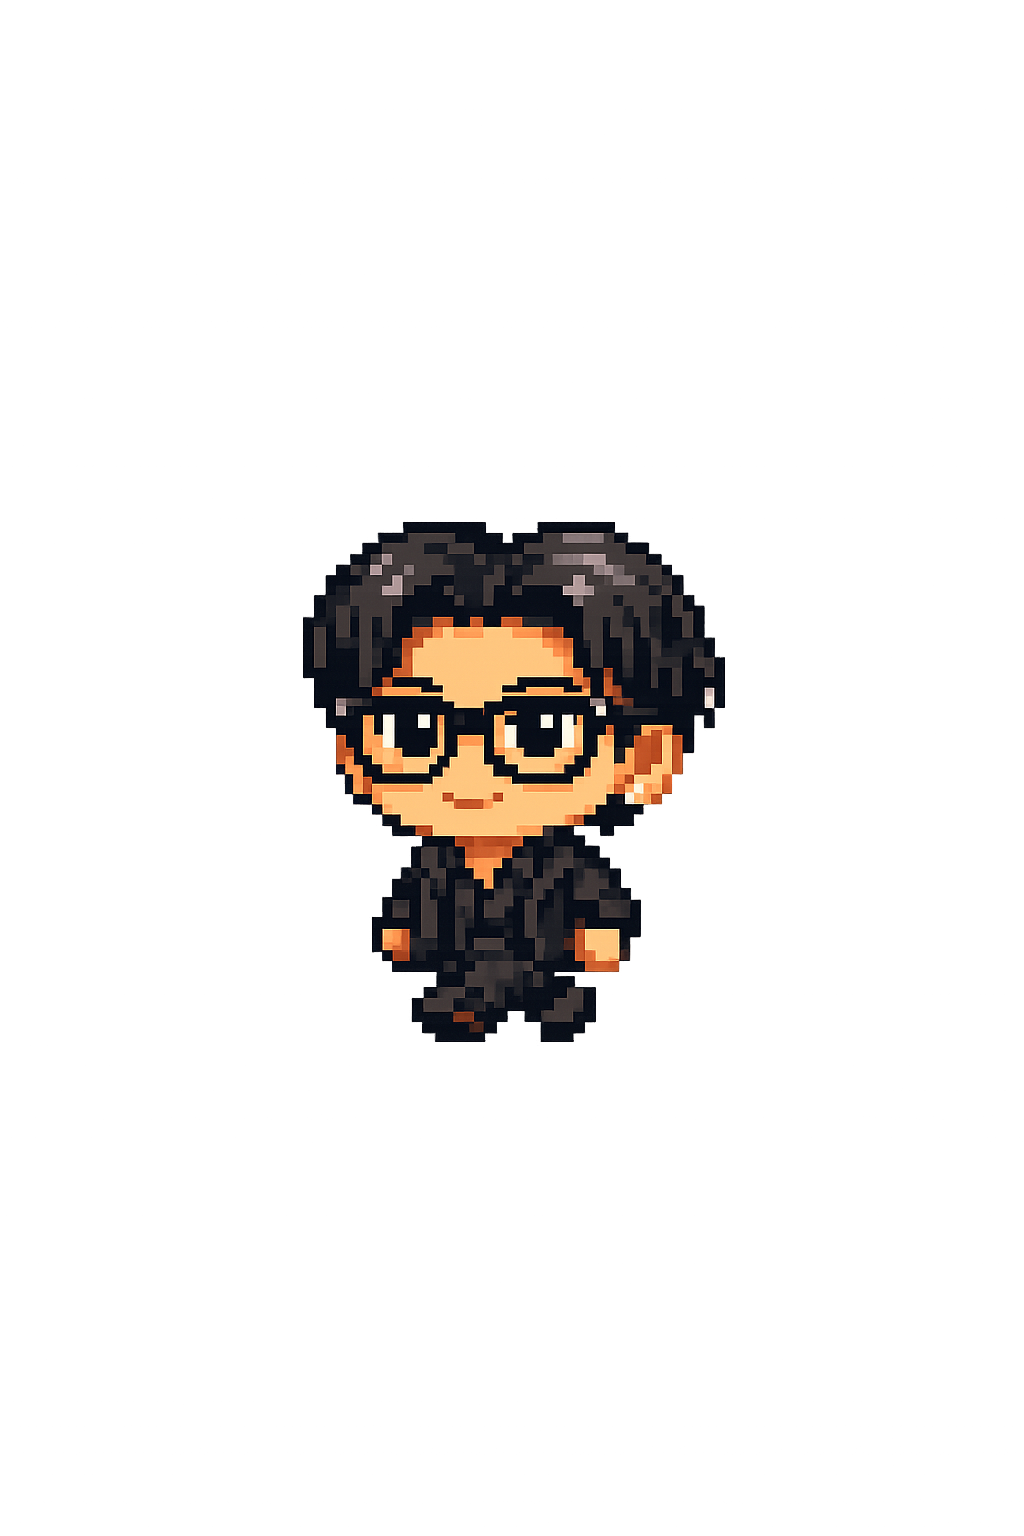
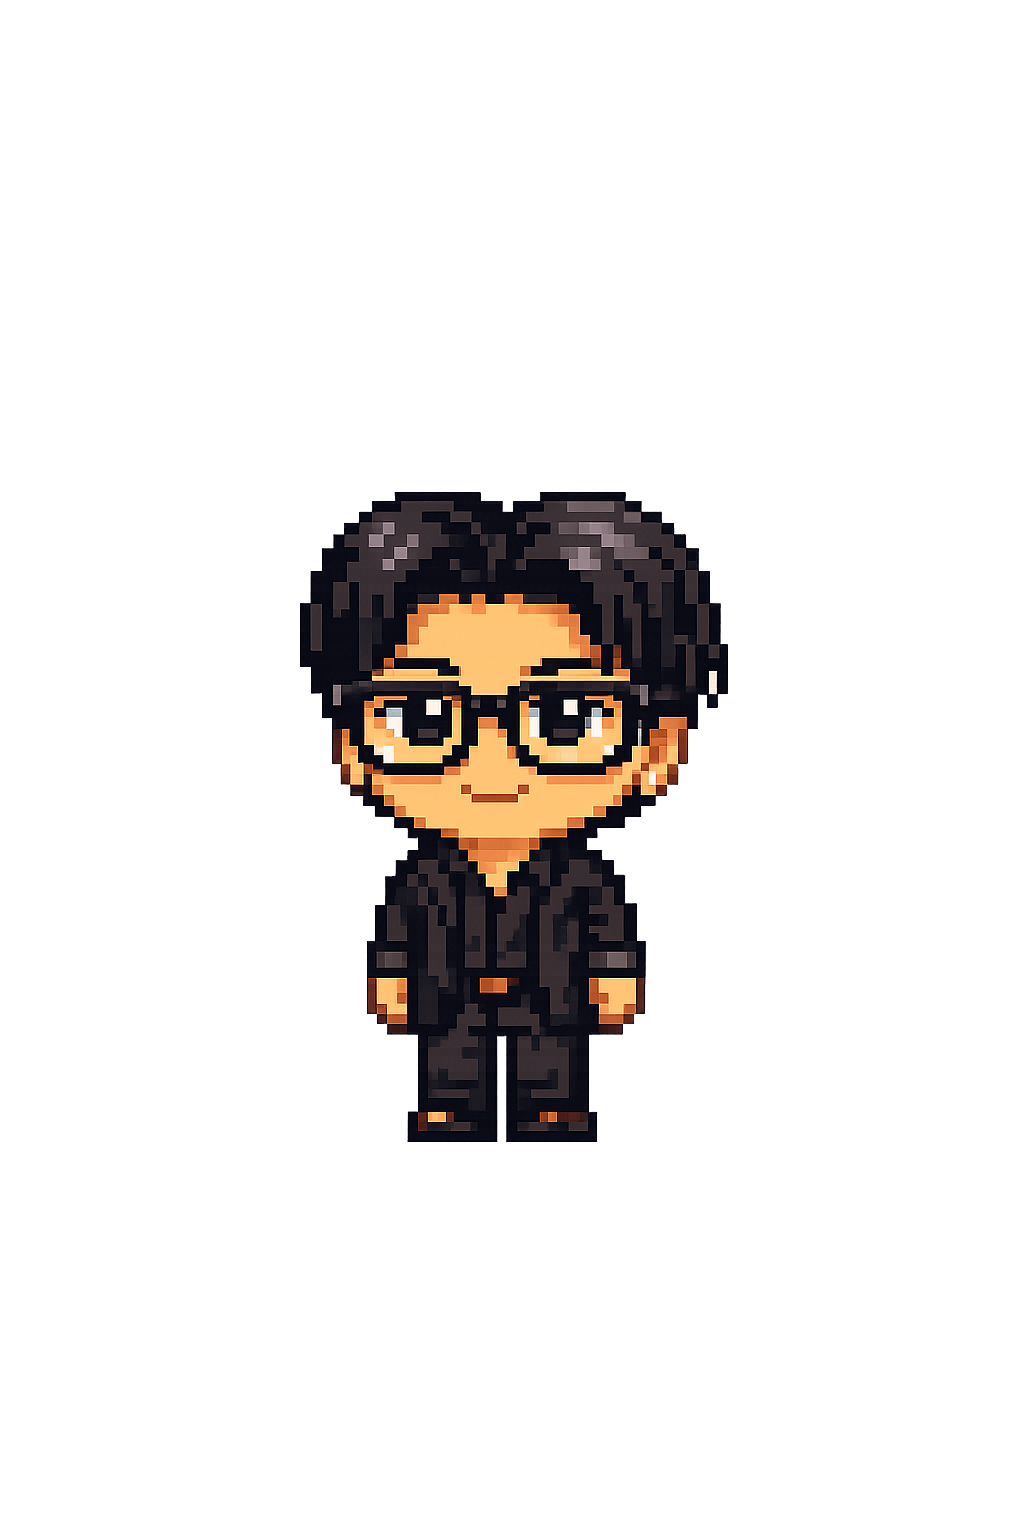
Adjusted Floating Hearts, 8bit character etc

Changed region(s): [[0.2812, 0.3125, 0.7188, 0.75]]

diff --git a/src/App.tsx b/src/App.tsx
@@ -33,7 +33,7 @@ function CharacterBubble({
 }) {
   return (
     <div className="flex flex-col items-center gap-4 w-full max-w-lg mx-auto">
-      <div className="flex items-start gap-4 w-full">
+      <div className="flex items-center gap-4 w-full">
         {/* 8-bit Character */}
         <motion.img
           src={characterImg}
@@ -41,28 +41,30 @@ function CharacterBubble({
           initial={{ scale: 0, rotate: -10 }}
           animate={{ scale: 1, rotate: 0 }}
           transition={{ type: "spring", stiffness: 200, damping: 15 }}
-          className="w-20 h-20 sm:w-28 sm:h-28 flex-shrink-0 object-contain"
+          className="w-36 h-36 sm:w-44 sm:h-44 flex-shrink-0 object-contain"
           style={{ imageRendering: "pixelated" }}
         />
 
         {/* Speech Bubble */}
         <div className="relative flex-1">
-          {/* Outer tail (black border) */}
+          {/* Outer tail (black outline) */}
           <div
-            className="absolute left-[-10px] top-6 w-0 h-0"
+            className="absolute left-[-10px] top-1/2 w-0 h-0"
             style={{
-              borderTop: "8px solid transparent",
-              borderBottom: "8px solid transparent",
+              marginTop: "-10px",
+              borderTop: "10px solid transparent",
+              borderBottom: "10px solid transparent",
               borderRight: "12px solid #000",
             }}
           />
           {/* Inner tail (matches bubble bg) */}
           <div
-            className="absolute left-[-7px] top-[26px] w-0 h-0"
+            className="absolute left-[-6px] top-1/2 w-0 h-0"
             style={{
+              marginTop: "-6px",
               borderTop: "6px solid transparent",
               borderBottom: "6px solid transparent",
-              borderRight: `10px solid ${tailColor}`,
+              borderRight: `8px solid ${tailColor}`,
             }}
           />
 

diff --git a/src/components/FloatingHearts.tsx b/src/components/FloatingHearts.tsx
@@ -1,10 +1,8 @@
 import { useMemo } from "react";
-
-const HEART_EMOJIS = ["💖", "💕", "💗", "💓", "🩷", "✨", "⭐"];
+import heartImg from "../assets/pictures/heart.png";
 
 interface Heart {
     id: number;
-    emoji: string;
     left: number;
     delay: number;
     duration: number;
@@ -16,7 +14,6 @@ export default function FloatingHearts() {
         () =>
             Array.from({ length: 20 }, (_, i) => ({
                 id: i,
-                emoji: HEART_EMOJIS[Math.floor(Math.random() * HEART_EMOJIS.length)],
                 left: Math.random() * 100,
                 delay: Math.random() * 8,
                 duration: 6 + Math.random() * 8,
@@ -28,19 +25,21 @@ export default function FloatingHearts() {
     return (
         <div className="fixed inset-0 pointer-events-none overflow-hidden z-0">
             {hearts.map((heart) => (
-                <span
+                <img
                     key={heart.id}
+                    src={heartImg}
+                    alt=""
                     className="absolute animate-float-up"
                     style={{
                         left: `${heart.left}%`,
                         animationDelay: `${heart.delay}s`,
                         animationDuration: `${heart.duration}s`,
-                        fontSize: `${heart.size}px`,
+                        width: `${heart.size}px`,
+                        height: `${heart.size}px`,
+                        imageRendering: "pixelated",
                         bottom: "-40px",
                     }}
-                >
-                    {heart.emoji}
-                </span>
+                />
             ))}
         </div>
     );

diff --git a/src/index.css b/src/index.css
@@ -20,7 +20,7 @@ body {
 /* Floating Hearts Animation */
 @keyframes float-up {
   0% {
-    transform: translateY(0) rotate(0deg);
+    transform: translateY(0);
     opacity: 0;
   }
 
@@ -33,7 +33,7 @@ body {
   }
 
   100% {
-    transform: translateY(-100vh) rotate(360deg);
+    transform: translateY(-100vh);
     opacity: 0;
   }
 }
